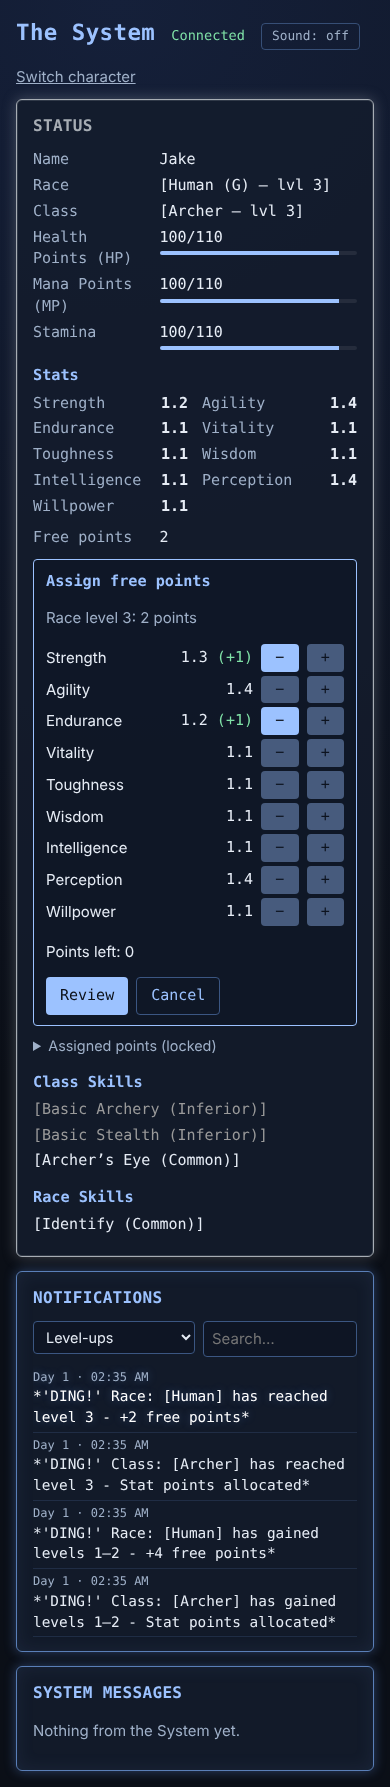
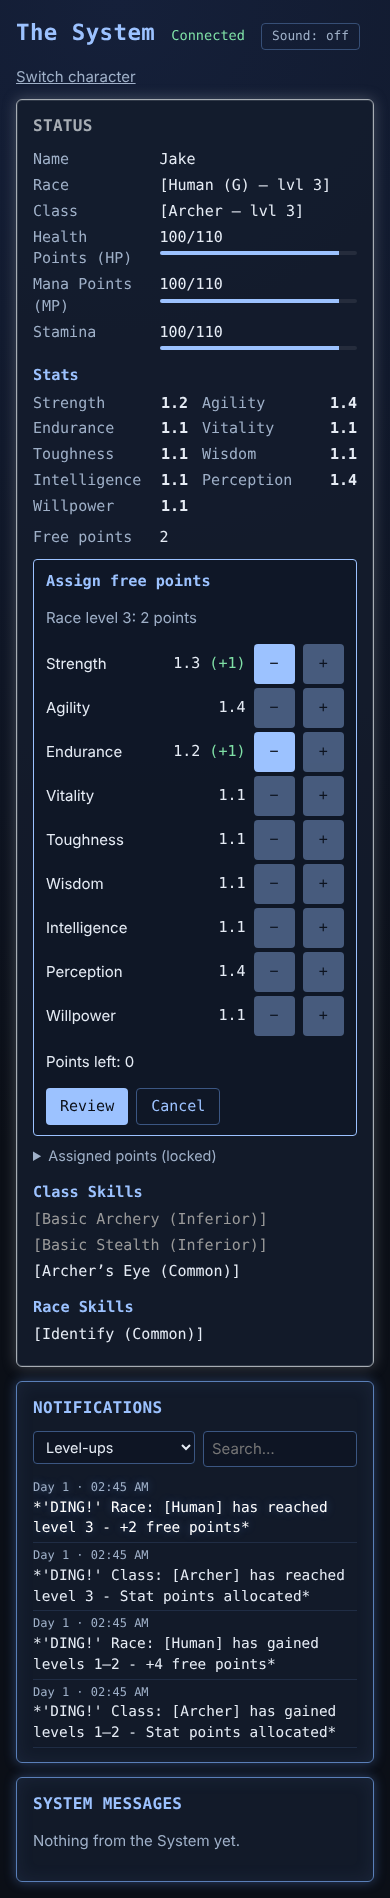
fix(M3.4): address review (panel pinned to its batch with a GM-change notice, focus management, glow without remount, larger steppers, connection-lost wording); e2e covers keyboard, override, pane
Claude-Session: https://claude.ai/code/session_01DunU5eoqUWJ2p7HLvhbDbF

diff --git a/apps/web/src/player/PlayerScreen.tsx b/apps/web/src/player/PlayerScreen.tsx
@@ -118,9 +118,41 @@ function Status({ view, client }: { view: PlayerView; client: LiveClient | null 
   const metal = themeClass(rules.grades.find((g) => g.id === me.grade)?.theme);
   const skills = (kind: SkillKind) => me.skills.filter((s) => s.kind === kind);
   const free = unassignedPoints(me.freePointBatches);
-  const [assigning, setAssigning] = useState(false);
+  // The batch the player opened (by race level): a live change never swaps it
+  // for another; if it stops being open (GM override, undo), the panel closes.
+  const [openLevel, setOpenLevel] = useState<number | null>(null);
+  const [notice, setNotice] = useState<string | null>(null);
   const batch = nextBatch(me.freePointBatches);
+  const open =
+    openLevel === null
+      ? null
+      : (me.freePointBatches.find((b) => b.raceLevel === openLevel && b.allocation === null) ??
+        null);
+  // Set while this screen's own assign is in flight, so its success is no surprise.
+  const [confirming, setConfirming] = useState<number | null>(null);
+  if (openLevel !== null && open === null) {
+    if (confirming !== openLevel) {
+      setNotice(
+        `The race level ${openLevel} points were changed by the GM; your draft was discarded.`,
+      );
+    }
+    setOpenLevel(null);
+    setConfirming(null);
+  }
   const locked = assignedBatches(me.freePointBatches);
+  const assignButton = useRef<HTMLButtonElement | null>(null);
+  const returnFocus = useRef(false);
+  useEffect(() => {
+    // After the panel closes, focus goes back to [Assign] (or stays put if it is gone).
+    if (returnFocus.current && assignButton.current) {
+      returnFocus.current = false;
+      assignButton.current.focus();
+    }
+  });
+  const close = () => {
+    setOpenLevel(null);
+    returnFocus.current = true;
+  };
   return (
     <section
       className={`window status-window${metal}`}
@@ -166,8 +198,16 @@ function Status({ view, client }: { view: PlayerView; client: LiveClient | null 
       <dl className="rows">
         <dt>Free points</dt>
         <Live testId="free-points" value={String(free)}>
-          {client && batch && !assigning && (
-            <button type="button" className="assign-btn" onClick={() => setAssigning(true)}>
+          {client && batch && openLevel === null && (
+            <button
+              type="button"
+              className="assign-btn"
+              ref={assignButton}
+              onClick={() => {
+                setNotice(null);
+                setOpenLevel(batch.raceLevel);
+              }}
+            >
               [Assign]
             </button>
           )}
@@ -179,15 +219,21 @@ function Status({ view, client }: { view: PlayerView; client: LiveClient | null 
           </>
         )}
       </dl>
-      {client && batch && assigning && (
+      {notice && (
+        <p className="err" role="alert" data-testid="assign-notice">
+          {notice}
+        </p>
+      )}
+      {client && open && (
         <AssignPoints
-          key={batch.raceLevel}
+          key={open.raceLevel}
           client={client}
           view={view}
-          raceLevel={batch.raceLevel}
-          points={batch.points}
+          raceLevel={open.raceLevel}
+          points={open.points}
           more={me.freePointBatches.filter((b) => b.allocation === null).length - 1}
-          onClose={() => setAssigning(false)}
+          onConfirming={(on) => setConfirming(on ? open.raceLevel : null)}
+          onClose={close}
         />
       )}
       {locked.length > 0 && (
@@ -226,6 +272,7 @@ function AssignPoints({
   raceLevel,
   points,
   more,
+  onConfirming,
   onClose,
 }: {
   client: LiveClient;
@@ -233,6 +280,7 @@ function AssignPoints({
   raceLevel: number;
   points: number;
   more: number;
+  onConfirming: (on: boolean) => void;
   onClose: () => void;
 }) {
   const rules = view.rules;
@@ -241,9 +289,20 @@ function AssignPoints({
   const [busy, setBusy] = useState(false);
   const [error, setError] = useState<string | null>(null);
   const left = points - spent(allocation);
+  // Keyboard and screen-reader users land on each step (M3.4 review).
+  const heading = useRef<HTMLHeadingElement | null>(null);
+  const confirmButton = useRef<HTMLButtonElement | null>(null);
+  const reviewButton = useRef<HTMLButtonElement | null>(null);
+  const [stepped, setStepped] = useState(false);
+  useEffect(() => {
+    if (!stepped) heading.current?.focus();
+    else if (review) confirmButton.current?.focus();
+    else reviewButton.current?.focus();
+  }, [review, stepped]);
   const confirm = async () => {
     setBusy(true);
     setError(null);
+    onConfirming(true);
     const result = await client.command({
       type: 'freePoints.assign',
       characterId: view.me.id,
@@ -251,12 +310,19 @@ function AssignPoints({
       allocation,
     });
     setBusy(false);
+    if (!result.ok) onConfirming(false);
     if (result.ok) onClose();
+    else if (result.error === 'Connection lost' || result.error === 'Not connected to the System')
+      setError(
+        'Connection lost. Check your sheet once you are back: the points may already be assigned.',
+      );
     else setError(friendlyError(result.error));
   };
   return (
     <section className="assign" aria-labelledby="assign-heading" data-testid="assign">
-      <h3 id="assign-heading">Assign free points</h3>
+      <h3 id="assign-heading" tabIndex={-1} ref={heading}>
+        Assign free points
+      </h3>
       <p className="muted">
         Race level {raceLevel}: {points} points
         {more > 0 ? ` (${more} more ${more === 1 ? 'batch' : 'batches'} waiting)` : ''}
@@ -298,7 +364,15 @@ function AssignPoints({
             Points left: {left}
           </p>
           <div className="assign-actions">
-            <button type="button" disabled={left !== 0} onClick={() => setReview(true)}>
+            <button
+              type="button"
+              ref={reviewButton}
+              disabled={left !== 0}
+              onClick={() => {
+                setStepped(true);
+                setReview(true);
+              }}
+            >
               Review
             </button>
             <button type="button" className="secondary" onClick={onClose}>
@@ -308,12 +382,18 @@ function AssignPoints({
         </>
       ) : (
         <>
-          <p data-testid="assign-review">
+          <p id="assign-review" data-testid="assign-review">
             Assign {allocationText(rules, allocation)}? Assigned points lock; only the GM can change
             them.
           </p>
           <div className="assign-actions">
-            <button type="button" disabled={busy} onClick={() => void confirm()}>
+            <button
+              type="button"
+              ref={confirmButton}
+              disabled={busy}
+              aria-describedby="assign-review"
+              onClick={() => void confirm()}
+            >
               Confirm
             </button>
             <button
@@ -373,7 +453,7 @@ function SkillList({
 
 /**
  * Counts changes to `value` after the first render (React's "adjust state
- * while rendering" pattern, no refs or effects). Used as a key, it remounts
+ * while rendering" pattern, no refs or effects). Used as a key (or an alternating class), it restarts
  * the element so the CSS glow replays on every change (DESIGN §9 "values
  * update live"), including a change back to an earlier value.
  */
@@ -404,7 +484,9 @@ function Live({
 }) {
   const changes = useChangeCount(value);
   return (
-    <dd className={changes > 0 ? 'flash' : undefined} key={changes}>
+    // Alternating animation names replay the glow on every change without
+    // remounting, so a control inside (e.g. [Assign]) keeps its focus.
+    <dd className={changes > 0 ? `flash flash-${changes % 2}` : undefined}>
       <span data-testid={testId}>
         {parts.map((part, i) => (
           <Fragment key={i}>

diff --git a/e2e/M3.4.spec.ts b/e2e/M3.4.spec.ts
@@ -28,6 +28,37 @@ function watchErrors(page: Page) {
   return errors;
 }
 
+/** Runs one GM command over the GM page's own origin (no console form for it yet). */
+async function gmCommand(gm: Page, command: Record<string, unknown>): Promise<void> {
+  const result = await gm.evaluate(
+    ({ key, command }) =>
+      new Promise<string>((resolve) => {
+        const ws = new WebSocket(
+          `ws://${(globalThis as unknown as { location: { host: string } }).location.host}/ws`,
+        );
+        ws.onmessage = (e) => {
+          const m = JSON.parse(String(e.data)) as { type: string; ok?: boolean; error?: string };
+          if (m.type === 'hello') ws.send(JSON.stringify({ type: 'join', role: 'gm', gmKey: key }));
+          if (m.type === 'joined')
+            ws.send(JSON.stringify({ type: 'command', requestId: 'x', command }));
+          if (m.type === 'result') {
+            ws.close();
+            resolve(m.ok ? 'ok' : (m.error ?? 'failed'));
+          }
+        };
+      }),
+    { key: GM_KEY, command },
+  );
+  expect(result).toBe('ok');
+}
+
+const focusedText = (page: Page) =>
+  page.evaluate(
+    () =>
+      (globalThis as unknown as { document: { activeElement: { textContent: string } | null } })
+        .document.activeElement?.textContent ?? '',
+  );
+
 async function award(gm: Page, amount: number) {
   const form = gm.locator('form[aria-labelledby="award-xp"]');
   await gm.getByLabel('Amount').fill(String(amount));
@@ -55,9 +86,12 @@ test('a player assigns a free-point batch, which then locks', async ({ browser }
   const agility = laptop.getByTestId('stat-agility');
   const agilityBefore = (await agility.locator('strong').innerText()).trim();
 
-  await laptop.getByRole('button', { name: '[Assign]' }).click();
+  // Keyboard: Enter on [Assign] lands on the panel heading.
+  await laptop.getByRole('button', { name: '[Assign]' }).focus();
+  await laptop.keyboard.press('Enter');
   const panel = laptop.getByTestId('assign');
   await expect(panel).toContainText('Race level 1: 2 points (1 more batch waiting)');
+  await expect.poll(() => focusedText(laptop)).toBe('Assign free points');
   await expect(laptop.getByTestId('points-left')).toHaveText('Points left: 2');
   const review = panel.getByRole('button', { name: 'Review' });
   await expect(review).toBeDisabled();
@@ -70,16 +104,24 @@ test('a player assigns a free-point batch, which then locks', async ({ browser }
   await panel.getByRole('button', { name: 'Remove a point from Perception' }).click();
   await panel.getByRole('button', { name: 'Add a point to Agility' }).click();
   await expect(panel.getByTestId('assign-agility')).toContainText('(+2)');
-  await laptop.screenshot({ path: path.join(shots, 'player-assign-1366x768.png') });
+  await laptop.screenshot({ path: path.join(shots, 'player-assign-1366x768.png'), fullPage: true });
   await review.click();
   await expect(laptop.getByTestId('assign-review')).toHaveText(
     'Assign +2 Agility? Assigned points lock; only the GM can change them.',
   );
+  await expect.poll(() => focusedText(laptop)).toBe('Confirm');
+  await panel.scrollIntoViewIfNeeded();
+  await laptop.screenshot({ path: path.join(shots, 'player-review-1366x768.png') });
+  await panel.getByRole('button', { name: 'Back' }).click();
+  await expect.poll(() => focusedText(laptop)).toBe('Review');
+  await review.click();
   await panel.getByRole('button', { name: 'Confirm' }).click();
 
   // Locked: the stat rose live, the batch is listed as assigned.
   await expect(panel).toHaveCount(0);
+  await expect(laptop.getByTestId('assign-notice')).toHaveCount(0);
   await expect(laptop.getByTestId('free-points')).toHaveText('2');
+  await expect.poll(() => focusedText(laptop)).toBe('[Assign]');
   await expect(agility.locator('strong')).not.toHaveText(agilityBefore);
   const locked = laptop.getByTestId('locked-points');
   await locked.getByText('Assigned points (locked)').click();
@@ -107,25 +149,44 @@ test('a player assigns a free-point batch, which then locks', async ({ browser }
   await expect(locked).toContainText('Race level 2: +2 Perception');
   await laptop.screenshot({ path: path.join(shots, 'player-1366x768.png') });
 
-  // Phone: a new batch, assigned on a 390-wide screen without sideways scroll.
+  // A new batch. The GM's View-as pane never offers [Assign].
   await award(gm, 100);
+  await expect(laptop.getByTestId('free-points')).toHaveText('2');
+  const pane = await browser.newPage({ viewport: { width: 340, height: 600 } });
+  await pane.goto(`${laptop.url()}?pane=1`);
+  await expect(pane.getByTestId('free-points')).toHaveText('2');
+  await expect(pane.getByRole('button', { name: '[Assign]' })).toHaveCount(0);
+  await pane.close();
+
+  // Phone: 390 wide, no sideways scroll. The GM overrides the batch while the
+  // panel is open: it closes with a notice instead of switching batches.
   const phone = await browser.newPage({ viewport: { width: 390, height: 844 } });
   const phoneErrors = watchErrors(phone);
   await phone.goto(laptop.url());
   await expect(phone.getByTestId('free-points')).toHaveText('2');
   await phone.getByRole('button', { name: '[Assign]' }).click();
   const phonePanel = phone.getByTestId('assign');
+  await expect(phonePanel).toContainText('Race level 3: 2 points');
   await phonePanel.getByRole('button', { name: 'Add a point to Strength' }).click();
   await phonePanel.getByRole('button', { name: 'Add a point to Endurance' }).click();
   const width = await phone.locator('html').evaluate((el) => el.scrollWidth);
   expect(width).toBeLessThanOrEqual(390);
-  await phonePanel.scrollIntoViewIfNeeded();
   await phone.screenshot({ path: path.join(shots, 'player-assign-390x844.png'), fullPage: true });
-  await phonePanel.getByRole('button', { name: 'Review' }).click();
-  await phonePanel.getByRole('button', { name: 'Confirm' }).click();
+  const characterId = new URL(laptop.url()).pathname.split('/').at(-1);
+  await gmCommand(gm, {
+    type: 'freePoints.override',
+    characterId,
+    raceLevel: 3,
+    allocation: { vitality: 2 },
+  });
+  await expect(phonePanel).toHaveCount(0);
+  await expect(phone.getByTestId('assign-notice')).toHaveText(
+    'The race level 3 points were changed by the GM; your draft was discarded.',
+  );
   await expect(phone.getByTestId('free-points')).toHaveText('0');
-  // The laptop sees it too.
   await expect(laptop.getByTestId('free-points')).toHaveText('0');
+  await phone.getByText('Assigned points (locked)').click();
+  await expect(phone.getByTestId('locked-points')).toContainText('Race level 3: +2 Vitality');
 
   expect(errors).toEqual([]);
   expect(phoneErrors).toEqual([]);

diff --git a/apps/web/src/styles.css b/apps/web/src/styles.css
@@ -709,7 +709,16 @@ button.secondary:hover {
 .flash {
   animation: flash 1.6s ease-out;
 }
+.flash.flash-1 {
+  animation-name: flash-again;
+}
 @keyframes flash {
+  from {
+    color: #fff;
+    text-shadow: 0 0 10px var(--glow);
+  }
+}
+@keyframes flash-again {
   from {
     color: #fff;
     text-shadow: 0 0 10px var(--glow);
@@ -845,12 +854,13 @@ button.secondary:hover {
 }
 .assign-stats li {
   display: grid;
-  grid-template-columns: minmax(0, 1fr) auto 2.5em 2.5em;
+  grid-template-columns: minmax(0, 1fr) auto 2.75em 2.75em;
   align-items: center;
   gap: 8px;
 }
 .assign-stats button {
   padding: 3px 0;
+  min-height: 40px;
 }
 .assign-stats button:disabled,
 .assign-actions button:disabled {

diff --git a/docs/DECISIONS.md b/docs/DECISIONS.md
@@ -78,4 +78,4 @@ Newest at the bottom. Format: ID · date · decision · why.
 - D74 · 2026-10-22 · Join screen (M3.1): `/` lists the party from `GET /api/characters`, which now returns `{id, name, grade, theme}` (theme = the grade's metal token from the rules config; still no stats or GM data). Characters have no portrait yet (M4.4 adds one), so each shows a monogram (first and last initial) ringed in its grade metal; the client already renders an image when a row carries a same-origin `portrait` path. The browser remembers the last character it joined (localStorage key `the-system:last-character`, written once the join succeeds, never from the GM's View-as panes, every access in try/catch) and offers "Continue as <name>" above the list plus a "Last played" tag, only while that id is in the current list. It does not jump to the remembered character on its own, because `/` is also where "Switch character" leads. A Refresh button reloads the list. · ROADMAP M3.1; one tap to rejoin without trapping anyone on the wrong character.
 - D75 · 2026-10-22 · Status screen (M3.2): the DESIGN §9 rows in order (Name, Race, Class, Profession when one exists, the pools from the rules config with a thin bar under each number, Stats, Free points, Titles, then Class/Profession/Race Skills as headed lists). The window frame and heading take the grade's metal from the rules config's theme token. Skills show `[Official name (Rarity)]` in a rarity colour with the nickname beside it in quotes. Changed values (levels, pools, stats, free points) glow for 1.6 s, but not on first paint, and never under reduced motion. On phones the label column narrows and bracketed values wrap only at the dash. Colours are CSS placeholders keyed by config ids; M8.1 owns the real themes and the silver/platinum ΔE check. The free-points [Assign] button arrives with M3.4. The demo gives Jake's first class skill the nickname "Old Faithful", so a nickname is visible. · DESIGN §9; colours keyed by config ids keep rule data out of the UI.
 - D76 · 2026-10-22 · Notifications and history (M3.3): notification derivation moved into the engine (`notificationsBetween`, `notificationHistory` in `packages/engine/src/history`); the history is folded from the event log like the campaign (undone events skipped), so it reaches back to day 1 across restarts and the hub's in-memory cap and `gap` flag are gone (protocol v3). Items carry `seq`, `at` and the in-game `day`. Join with `lastSeq` 0 sends the whole own-character history; an undo resends it with `reset: true` so undone DINGs leave open screens at once, and a rejoin whose `lastSeq` predates an undo gets the same reset. An undo refolds the log once (about 20 ms for 3,000 events here). The player's Notifications window lists it newest first with "Day N · time", a Show filter (Level-ups by default; Everything, Class, Profession, Race, Free points, System messages) and a case-insensitive search over the book text and day. DINGs and System messages that arrive while the page is open pop up one at a time (2.6 s each, click to skip, "+N more", at the bottom of the screen clear of the header; tracked by identity so an undo cannot skip one; no animation under reduced motion); older history never pops up. The chime is two Web Audio notes, off by default, remembered per browser (try/catch); the GM's View-as panes get neither pop-ups nor sound. · DESIGN §7/§9; deriving from the log makes "back to day 1" true without a second store that could drift.
-- D77 · 2026-10-22 · Free points (M3.4): the status screen's Free points row gets an [Assign] button while any batch is unassigned (never in the GM's View-as panes). It opens one batch at a time, the oldest by race level, with "N more batches waiting". Each stat has −/+ steppers showing the new value in tenths and the points added; Review unlocks only when the whole batch is spent (D38). A review line ("Assign +2 Agility? Assigned points lock; only the GM can change them.") leads to Confirm, which sends `freePoints.assign`. Cancel or Back discards the draft. Assigned batches are listed under a folded "Assigned points (locked)". · DESIGN §4 "assigned once, then locked"; an explicit review step guards a choice the player cannot undo.
+- D77 · 2026-10-22 · Free points (M3.4): the status screen's Free points row gets an [Assign] button while any batch is unassigned (never in the GM's View-as panes). It opens one batch at a time, the oldest by race level, with "N more batches waiting". Each stat has −/+ steppers showing the new value in tenths and the points added; Review unlocks only when the whole batch is spent (D38). A review line ("Assign +2 Agility? Assigned points lock; only the GM can change them.") leads to Confirm, which sends `freePoints.assign`. Cancel discards the draft; Back returns to it. The panel stays on the batch it opened: if that batch stops being open (GM override, undo), it closes with a notice and never switches batch. Focus moves to the heading, then Confirm or Review, then back to [Assign]; the live glow on a row restarts by alternating animation names instead of remounting, so a focused control keeps focus. Assigned batches are listed under a folded "Assigned points (locked)". · DESIGN §4 "assigned once, then locked"; an explicit review step guards a choice the player cannot undo.
